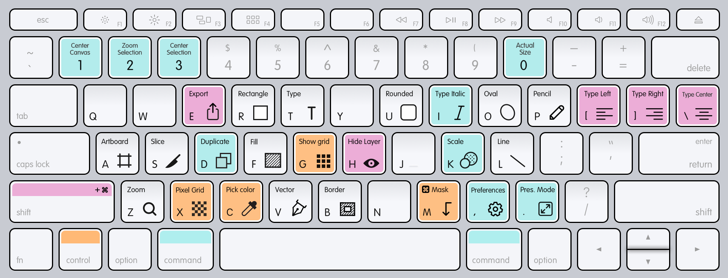
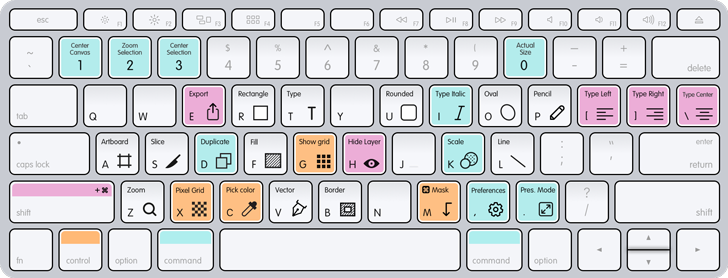
Update keyboard images

diff --git a/dev/index.html b/dev/index.html
@@ -61,24 +61,26 @@
 		</p>
 
 		<p class="masthead__keyboard-wrapper">
-			<img
-				class="masthead__keyboard"
-				src="img/keyboard/904.png"
-				srcset="
-					img/keyboard/390.png 390w,
-					img/keyboard/728.png 728w,
-					img/keyboard/780.png 780w,
-					img/keyboard/904.png 904w,
-					img/keyboard/1456.png 1456w,
-					img/keyboard/1808.png 1808w
-				"
-				sizes="
-					(max-width: 767px) calc(100vw - 20px),
-					(min-width: 944px) 904px,
-					calc(100vw - 40px)
-				"
-				alt="Keyboard with SketchKey stickers"
-			>
+			<p class="masthead__keyboard-wrapper">
+				<img
+					class="masthead__keyboard"
+					src="img/keyboard/825.png"
+					srcset="
+						img/keyboard/390.png 390w,
+						img/keyboard/728.png 728w,
+						img/keyboard/780.png 780w,
+						img/keyboard/825.png 825w,
+						img/keyboard/1456.png 1456w,
+						img/keyboard/1650.png 1650w
+					"
+					sizes="
+						(max-width: 767px) calc(100vw - 20px),
+						(min-width: 865px) 825px,
+						calc(100vw - 40px)
+					"
+					alt="Keyboard with SketchKey stickers"
+				>
+			</p>
 		</p>
 	</div>
 </header><!-- .masthead -->
